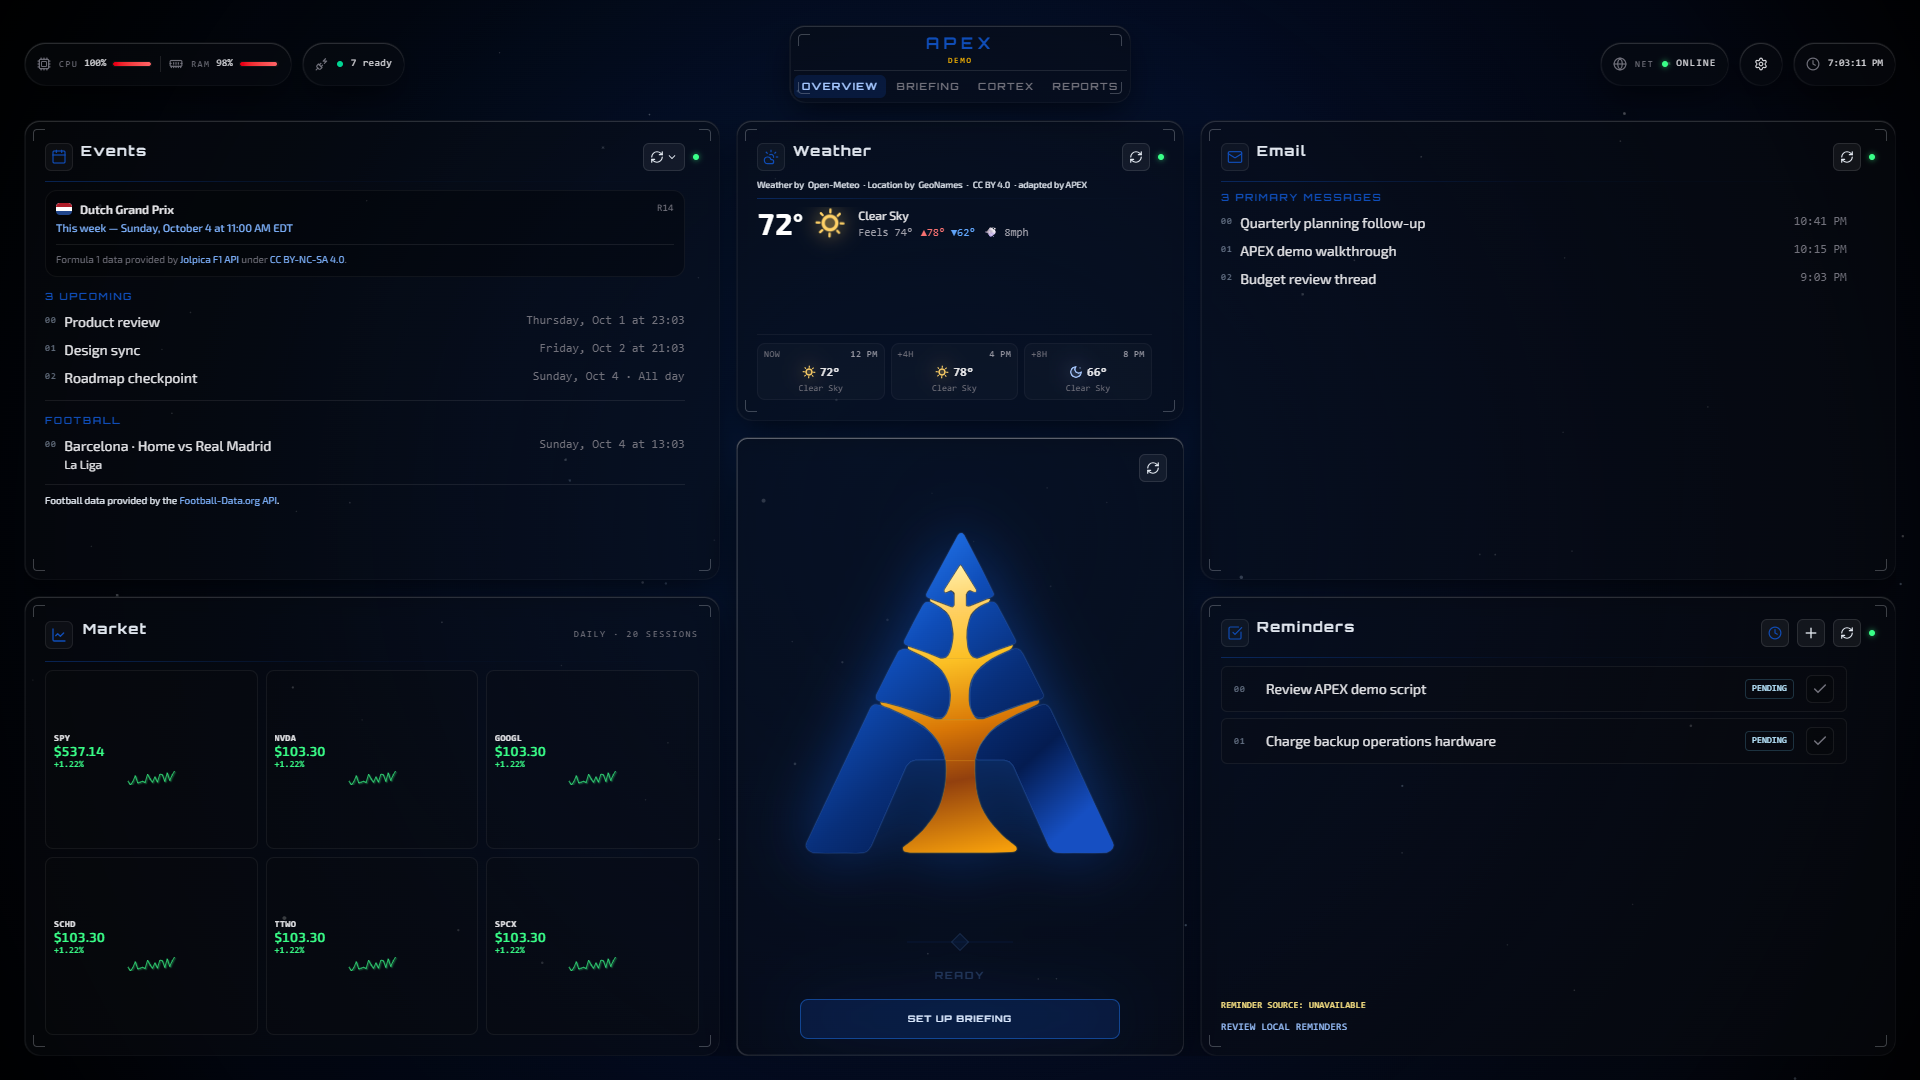
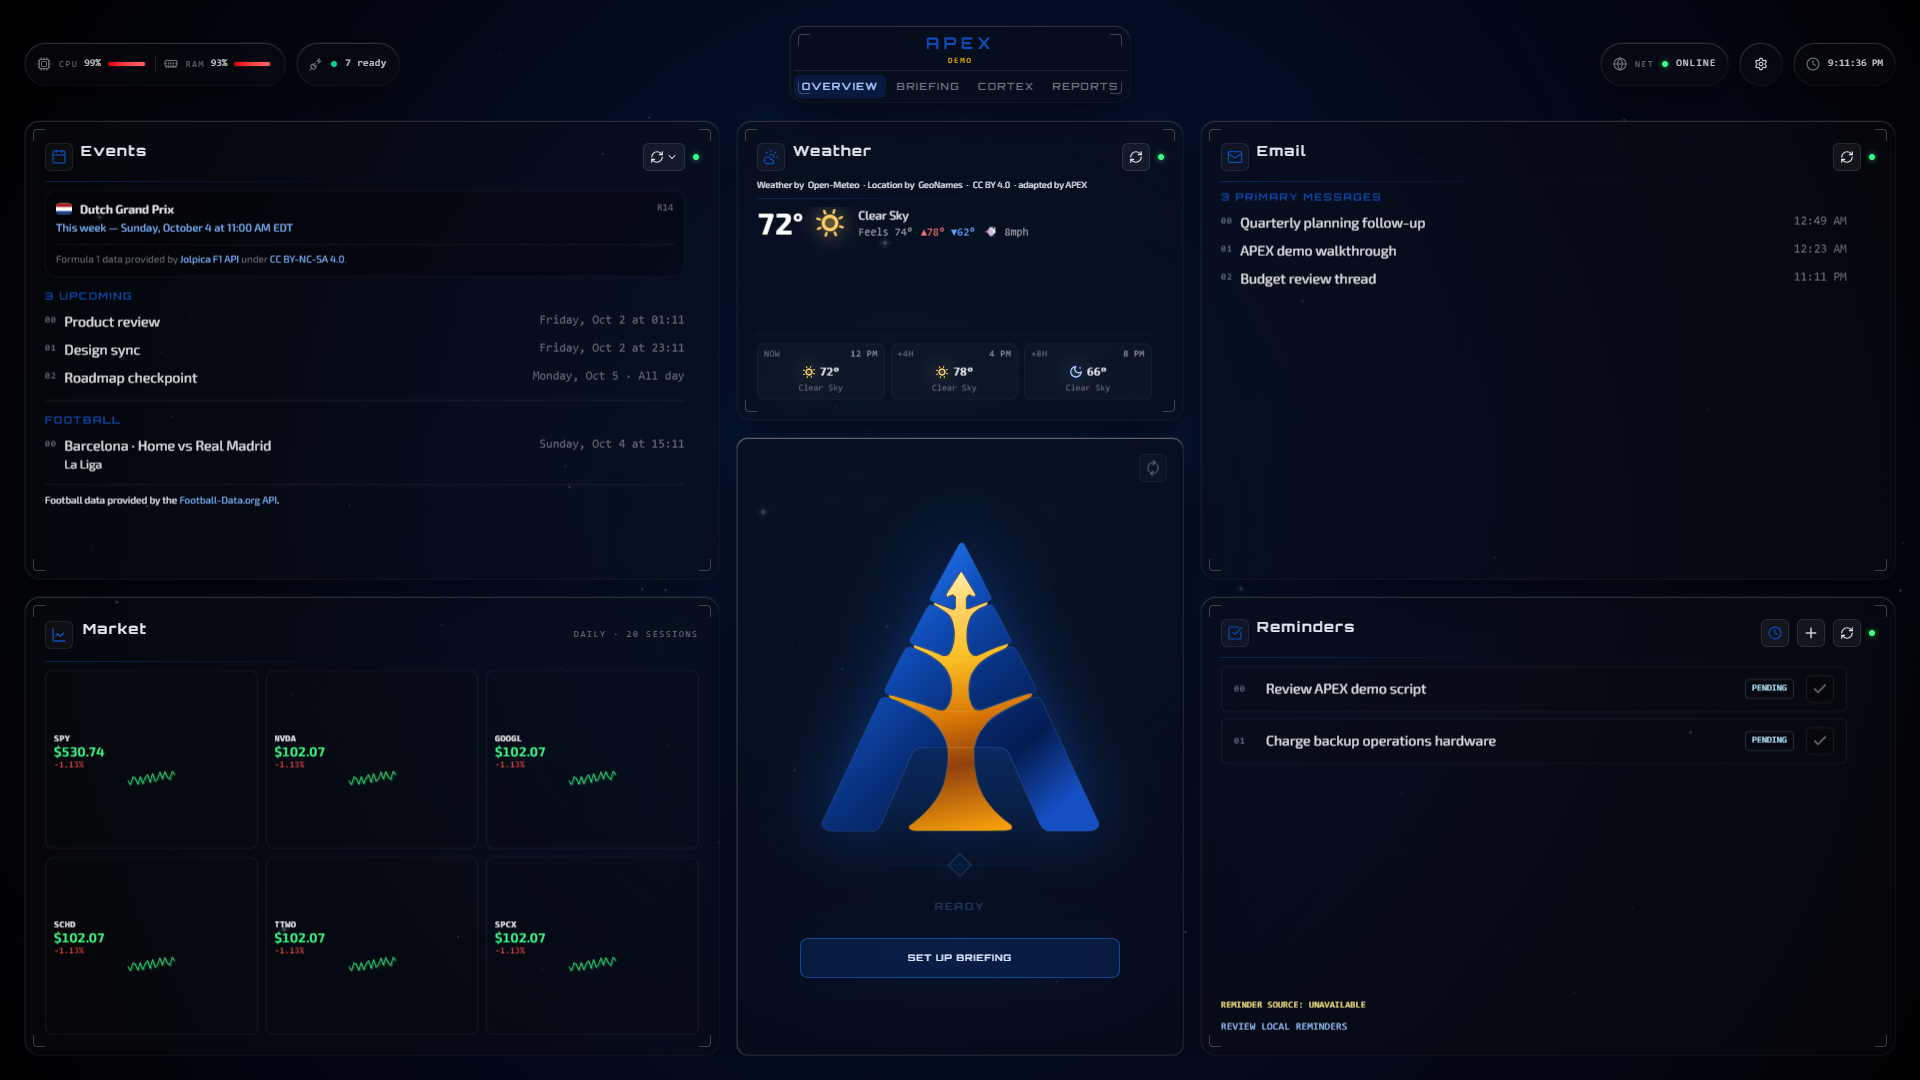
fix: balance overview identity proportions and spacing

diff --git a/frontend/src/components/overview/OverviewView.tsx b/frontend/src/components/overview/OverviewView.tsx
@@ -84,14 +84,14 @@ export function OverviewView({
               <RefreshCw className={`size-3.5 motion-reduce:animate-none ${state === 'collecting' || telemetry.isRefreshingAll ? 'animate-spin' : ''}`} strokeWidth={2} aria-hidden />
             </button>
           </header>
-          <div className={`flex min-h-0 flex-1 flex-col items-center justify-center filter drop-shadow-[0_0_24px_rgba(var(--logo-glow-color),0.45)] transition-all duration-1000 ease-[cubic-bezier(0.16,1,0.3,1)] transform-gpu hover:filter hover:drop-shadow-[0_0_32px_rgba(var(--logo-glow-color),0.6)] ${compact ? 'gap-3' : 'gap-4'}`} data-slot="home-identity" data-logo-size="overview">
-            <div className="flex min-h-0 min-w-0 flex-1 items-center justify-center">
+          <div className={`flex min-h-0 flex-1 flex-col items-center justify-center filter drop-shadow-[0_0_24px_rgba(var(--logo-glow-color),0.45)] transition-all duration-1000 ease-[cubic-bezier(0.16,1,0.3,1)] transform-gpu hover:filter hover:drop-shadow-[0_0_32px_rgba(var(--logo-glow-color),0.6)] gap-6`} data-slot="home-identity" data-logo-size="overview">
+            <div className="overview-identity-mark flex min-h-0 min-w-0 flex-col items-center justify-center gap-1">
               <ApexLogo
                 {...identity.logoProps}
-                className="hud-logo-mark h-56 w-auto max-h-full max-w-full aspect-[5208/5420] sm:h-64 xl:h-80 transition-all duration-700 ease-[cubic-bezier(0.16,1,0.3,1)] motion-reduce:transition-none"
+                className="overview-logo w-full min-h-0 shrink aspect-[5208/5420] transition-all duration-700 ease-[cubic-bezier(0.16,1,0.3,1)] motion-reduce:transition-none"
               />
+              <VoiceSignalGlyph {...identity.glyphProps} className="overview-signal shrink-0" />
             </div>
-            <VoiceSignalGlyph {...identity.glyphProps} />
             <button
               type="button"
               onClick={onSetUpBriefing}
@@ -105,14 +105,14 @@ export function OverviewView({
       ) : (
         <>
           <header className="min-h-7 shrink-0" aria-hidden="true" />
-          <div className={`flex min-h-0 flex-1 flex-col items-center justify-center ${compact ? 'gap-3' : 'gap-4'}`} data-slot="home-identity" data-logo-size="overview">
-          <div className="filter drop-shadow-[0_0_24px_rgba(var(--logo-glow-color),0.45)] flex min-h-0 min-w-0 flex-1 items-center justify-center">
+          <div className="flex min-h-0 flex-1 flex-col items-center justify-center gap-6" data-slot="home-identity" data-logo-size="overview">
+          <div className="filter drop-shadow-[0_0_24px_rgba(var(--logo-glow-color),0.45)] overview-identity-mark flex min-h-0 min-w-0 flex-col items-center justify-center gap-1">
             <ApexLogo
               {...identity.logoProps}
-              className="hud-logo-mark h-56 w-auto max-h-full max-w-full aspect-[5208/5420] sm:h-64 xl:h-80 transition-all duration-700 ease-[cubic-bezier(0.16,1,0.3,1)] motion-reduce:transition-none"
+              className="overview-logo w-full min-h-0 shrink aspect-[5208/5420] transition-all duration-700 ease-[cubic-bezier(0.16,1,0.3,1)] motion-reduce:transition-none"
             />
+            <VoiceSignalGlyph {...identity.glyphProps} className="overview-signal shrink-0" />
           </div>
-          <VoiceSignalGlyph {...identity.glyphProps} />
           {state === 'error' ? <div className="max-w-sm text-center" role="alert"><p className="font-mono text-sm text-rose-300">{error || 'I couldn’t collect telemetry just now.'}</p></div> : null}
           {state === 'no-data' ? <p className="font-mono text-sm text-zinc-400" role="status">No telemetry sources are available yet.</p> : null}
           {state === 'center' || state === 'error' || state === 'no-data' ? <TelemetryCollectionAction

diff --git a/frontend/src/index.css b/frontend/src/index.css
@@ -931,3 +931,32 @@
     animation: none;
   }
 }
+
+/* Keep Overview identity proportions together as the card contracts. */
+.overview-identity-mark {
+  width: min(100%, 12.1rem);
+  max-height: 100%;
+}
+.overview-logo {
+  height: auto;
+  object-fit: contain;
+}
+.overview-signal {
+  width: 75%;
+}
+.overview-signal > svg {
+  width: 100%;
+  height: auto;
+}
+@media (min-width: 640px) {
+  .overview-identity-mark { width: min(100%, 13.84rem); }
+}
+@media (min-width: 1280px) {
+  .overview-identity-mark { width: min(100%, 17.3rem); }
+}
+@media (max-height: 820px) {
+  .overview-identity-mark { width: min(100%, 8.65rem); }
+}
+@media (max-width: 767px) {
+  .overview-identity-mark { width: min(100%, 7.35rem); }
+}

diff --git a/docs/design-system.md b/docs/design-system.md
@@ -93,7 +93,7 @@ Reuse these established primitives instead of creating competing panel chrome.
 ### Briefing and voice controls
 
 - Keep briefing controls in the Briefing rail. “Set up briefing” opens a responsive dialog with Daily, Catch Up, and Deep profile cards and one Agent control that shows the configured APEX Agent display name (Lynx by default). Its closed state keeps Model and Effort as separate segments showing the chosen model, provider, pricing, reasoning choice, and any stability or developer-mode badge. Each segment opens its own choices directly: Model lists Cloud/Local models with badges and prices, while Effort lists the selected model’s supported reasoning options. Draft choices stay local until Generate. For model-backed runs, the footer Generate action saves the selected APEX Agent model and reasoning settings before admitting a session; an error keeps the setup available for correction. Demo runs continue to use fixtures without saving a fixture model as the Agent selection. Cancel, saved sessions, source coverage, the resident local-model unload control, and speech controls stay in the rail. Saved sessions exclude archived Cortex conversations. “Repeat last briefing” uses the newest visible session and repeats its captured profile, model, and reasoning configuration against fresh context.
-- Launch is the initial screen and contains the APEX identity, four workspace buttons, Settings, and an optional DEMO/DEVELOPER indicator. Launch uses the APEX hero mark and a gold APEX wordmark. Its workspace buttons stay neutral glass with zinc labels; only each button’s icon uses the peer accent (Overview blue, Briefing gold, Cortex purple, Reports platinum); Settings stays neutral. The APEX badge in workspace chrome returns to Launch without resetting app-level activity. Navigation never collects telemetry or requests a cue. Overview before collection shows its centered identity card and **Collect Telemetry** (emerald). The identity mark uses Launch logo sizing before and after collection, including the shared compact and mobile size rules, subject to the available card bounds. Preflight cancellation leaves that card in place. After preflight proceeds, telemetry card shells appear with pending attention curtains; collection and briefing data gathering share the **Collecting data** glyph label. Reduced motion makes those reveals immediate. A usable snapshot opens the grid; failures without usable data show a centered error or no-data state with retry. A later refresh failure leaves an existing grid visible. The Briefing tab opens setup and generation without activation. Speech starts only after an explicit Prepare or Play action and never autoplays or regenerates on replay.
+- Launch is the initial screen and contains the APEX identity, four workspace buttons, Settings, and an optional DEMO/DEVELOPER indicator. Launch uses the APEX hero mark and a gold APEX wordmark. Its workspace buttons stay neutral glass with zinc labels; only each button’s icon uses the peer accent (Overview blue, Briefing gold, Cortex purple, Reports platinum); Settings stays neutral. The APEX badge in workspace chrome returns to Launch without resetting app-level activity. Navigation never collects telemetry or requests a cue. Overview before collection shows its centered identity card and **Collect Telemetry** (emerald). The Overview identity mark is slightly smaller than Launch before and after collection. Its glyph scales with the logo width; the logo, glyph, and status form a centered group with a separate gap before the action. Preflight cancellation leaves that card in place. After preflight proceeds, telemetry card shells appear with pending attention curtains; collection and briefing data gathering share the **Collecting data** glyph label. Reduced motion makes those reveals immediate. A usable snapshot opens the grid; failures without usable data show a centered error or no-data state with retry. A later refresh failure leaves an existing grid visible. The Briefing tab opens setup and generation without activation. Speech starts only after an explicit Prepare or Play action and never autoplays or regenerates on replay.
 - Render a completed artifact as the opening message in the Briefing thread. Its heading marks the briefing as presented only after it has been visible.
 - Summarize routine tool results compactly in the Briefing and Cortex threads. Errors, action approvals, and trust labels always render in full.
 - Share telemetry domain components between Overview cards and the Briefing telemetry rail rather than maintaining separate renderings. The rail is one bordered glass scroll panel; each domain renders as an internal section with extra vertical padding and hairline separators, without its own card chrome. Before a usable snapshot is available, the Briefing rail shows Collect Telemetry with progress or retry state and keeps database-backed Reminders below it. Reminders report loading while their source is pending and offer a retry when unavailable. Overview cards retain their existing chrome and compact layout.
